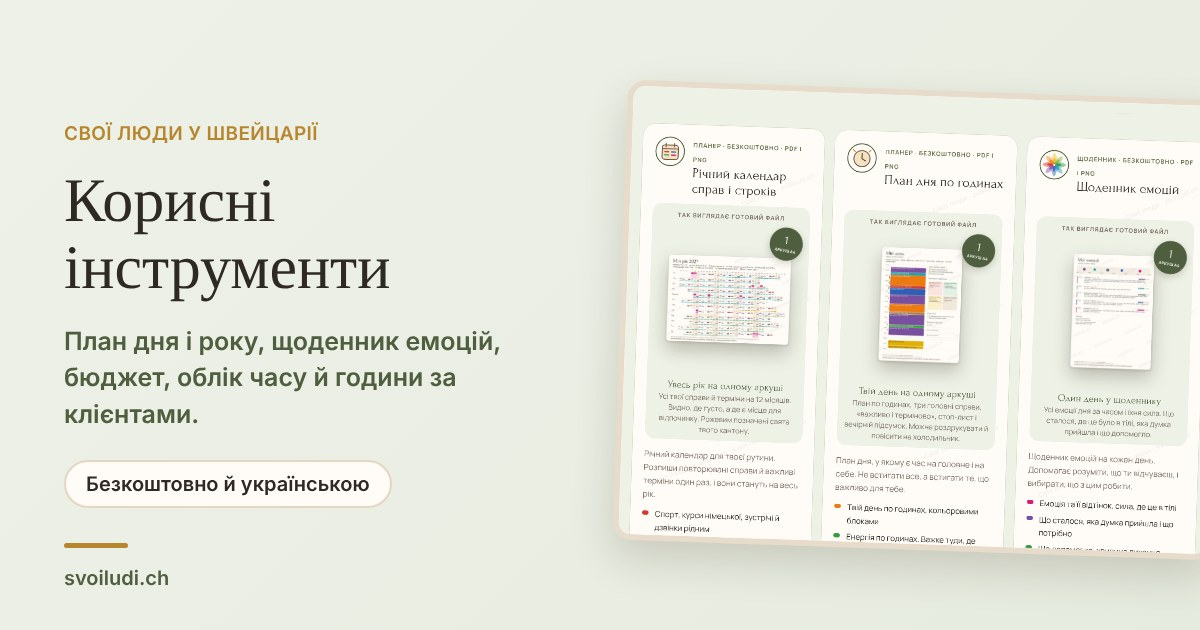
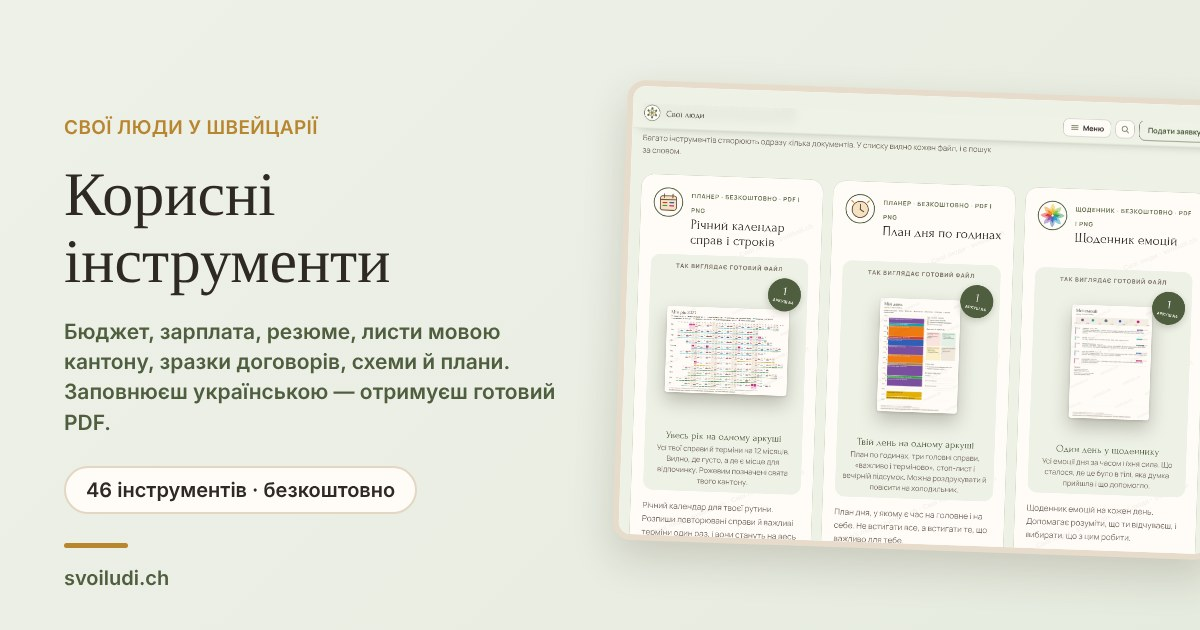
Превью ссылок: убраны 12 старых рабочих снимков экрана (корень, shots/); пересобраны устаревшие превью главной (20 направлений), «Как устроена Швейцария» (61 тема) и «Полезные инструменты» (46 инструментов), RU и UA; числа на превью og.js считает по сайту
Claude-Session: https://claude.ai/code/session_01E4tUbsWE7VL6NSJCaD6ywP

diff --git a/_i18n/og.js b/_i18n/og.js
@@ -10,6 +10,12 @@ const path = require('path'); const fs = require('fs');
 const ROOT = path.resolve(__dirname, '..'); const PORT = 8897; const BASE = `http://localhost:${PORT}`;
 const EB = { ru: 'СВОИ ЛЮДИ В ШВЕЙЦАРИИ', uk: 'СВОЇ ЛЮДИ У ШВЕЙЦАРІЇ' };
 const TOOLS = { ru: EB.ru + ' · ИНСТРУМЕНТЫ', uk: EB.uk + ' · ІНСТРУМЕНТИ' };
+// Числа на превью считаются по сайту при каждой сборке (11.10.2026: на превью стояли устаревшие «12 направлений» и «56 тем»).
+const pages = d => fs.readdirSync(path.join(ROOT, d), { withFileTypes: true }).filter(f => f.isDirectory() && fs.existsSync(path.join(ROOT, d, f.name, 'index.html'))).map(f => f.name);
+const N_TOPICS = pages('shveycariya').length;                                                   // темы «Как устроена Швейцария»
+const N_TOOLS = pages('instrumenty').filter(d => d !== 'vse-fayly').length;                      // инструменты и схемы
+const N_DIRS = (fs.readFileSync(path.join(__dirname, 'kategorii.py'), 'utf8').match(/^DIRS = \[([\s\S]*?)^\]/m) || ['', ''])[1].split('\n').filter(l => /^ {4}\('/.test(l)).length; // направления справочника (_i18n/kategorii.py)
+const plural = (n, one, few, many) => { const a = n % 10, b = n % 100; return `${n} ` + (a === 1 && b !== 11 ? one : a >= 2 && a <= 4 && (b < 12 || b > 14) ? few : many); };
 // sel — что снять со страницы; fan — папка с картинками готового PDF (пример), вместо снимка страницы
 const CARDS = [
   { out: 'events/og-image', url: '/events/', sel: '.finder',
@@ -25,8 +31,8 @@ const CARDS = [
     ru: { eb: EB.ru, title: 'Курсы и занятия на своём языке', desc: 'Йога, немецкий, кружки для детей, мастер-классы и вебинары по кантонам Швейцарии.', chip: 'Видно, кто ведёт каждый курс' },
     uk: { eb: EB.uk, title: 'Курси й заняття своєю мовою', desc: 'Йога, німецька, гуртки для дітей, майстер-класи та вебінари по кантонах Швейцарії.', chip: 'Видно, хто веде кожен курс' } },
   { out: 'instrumenty/og-image', url: '/instrumenty/', sel: '.tools',
-    ru: { eb: EB.ru, title: 'Полезные инструменты', desc: 'План дня и года, дневник эмоций, бюджет, учёт времени и часы по клиентам.', chip: 'Бесплатно и на русском' },
-    uk: { eb: EB.uk, title: 'Корисні інструменти', desc: 'План дня і року, щоденник емоцій, бюджет, облік часу й години за клієнтами.', chip: 'Безкоштовно й українською' } },
+    ru: { eb: EB.ru, title: 'Полезные инструменты', desc: 'Бюджет, зарплата, резюме, письма на языке кантона, образцы договоров, схемы и планы. Заполняешь на русском — получаешь готовый PDF.', chip: plural(N_TOOLS, 'инструмент', 'инструмента', 'инструментов') + ' · бесплатно' },
+    uk: { eb: EB.uk, title: 'Корисні інструменти', desc: 'Бюджет, зарплата, резюме, листи мовою кантону, зразки договорів, схеми й плани. Заповнюєш українською — отримуєш готовий PDF.', chip: plural(N_TOOLS, 'інструмент', 'інструменти', 'інструментів') + ' · безкоштовно' } },
   { out: 'instrumenty/vse-fayly/og-image', url: '/instrumenty/vse-fayly/', sel: '#dom .kg',
     ru: { eb: TOOLS.ru, title: 'Все файлы и инструменты по темам', desc: 'Письма, образцы договоров, протоколы, схемы, расчёты и распечатки — каждый файл со ссылкой.', chip: 'Бесплатно · PDF' },
     uk: { eb: TOOLS.uk, title: 'Усі файли та інструменти за темами', desc: 'Листи, зразки договорів, протоколи, схеми, розрахунки й роздруківки — кожен файл із посиланням.', chip: 'Безкоштовно · PDF' } },
@@ -112,8 +118,8 @@ const CARDS = [
   const SH = { ru: EB.ru + ' · КАК УСТРОЕНА ШВЕЙЦАРИЯ', uk: EB.uk + ' · ЯК ВЛАШТОВАНА ШВЕЙЦАРІЯ' };
   if (fs.existsSync(path.join(ROOT, 'shveycariya/index.html')) && !have.has('shveycariya/og-image'))
     CARDS.push({ out: 'shveycariya/og-image', url: '/shveycariya/', sel: '.s-hero',
-      ru: { eb: EB.ru, title: 'Как устроена Швейцария', desc: 'Пермиты, налоги, страховки, школа, работа и жильё — простыми словами, с инструментами и специалистами.', chip: '56 тем · бесплатно' },
-      uk: { eb: EB.uk, title: 'Як влаштована Швейцарія', desc: 'Пермити, податки, страховки, школа, робота й житло — простими словами, з інструментами та фахівцями.', chip: '56 тем · безкоштовно' } });
+      ru: { eb: EB.ru, title: 'Как устроена Швейцария', desc: 'Пермиты, налоги, страховки, школа, работа и жильё — простыми словами, с инструментами и специалистами.', chip: plural(N_TOPICS, 'тема', 'темы', 'тем') + ' · бесплатно' },
+      uk: { eb: EB.uk, title: 'Як влаштована Швейцарія', desc: 'Пермити, податки, страховки, школа, робота й житло — простими словами, з інструментами та фахівцями.', chip: plural(N_TOPICS, 'тема', 'теми', 'тем') + ' · безкоштовно' } });
   for (const d of fs.readdirSync(path.join(ROOT, 'shveycariya')).sort()) {
     const out = `shveycariya/${d}/og-image`, ru = path.join(ROOT, 'shveycariya', d, 'index.html'), uk = path.join(ROOT, 'uk/shveycariya', d, 'index.html');
     if (have.has(out) || !fs.existsSync(ru)) continue;
@@ -126,8 +132,8 @@ const CARDS = [
 // Главная: карта Швейцарии, города связаны нитями, плашки специалистов (вариант A, выбран Ириной 07.10.2026)
 const MAIN = {
   out: 'fav/og-svoi-ludi',
-  ru: { eb: 'СПРАВОЧНИК · СООБЩЕСТВО', h1a: 'Свои люди', h1b: 'в Швейцарии', p: 'Врачи, юристы, психологи и мастера, которые говорят <nobr>по-русски</nobr> и <nobr>по-украински</nobr>. Рядом с вами, в каждом кантоне.', chips: ['26 кантонов', '12 направлений', 'встречи и события'], pins: ['Психолог', 'Юрист', 'Педиатр', 'Парикмахер', 'Массаж'] },
-  uk: { eb: 'ДОВІДНИК · СПІЛЬНОТА', h1a: 'Свої люди', h1b: 'у Швейцарії', p: 'Лікарі, юристи, психологи й майстри, які говорять російською та українською. Поруч із вами, у кожному кантоні.', chips: ['26 кантонів', '12 напрямів', 'зустрічі й події'], pins: ['Психолог', 'Юрист', 'Педіатр', 'Перукар', 'Масаж'] },
+  ru: { eb: 'СПРАВОЧНИК · СООБЩЕСТВО', h1a: 'Свои люди', h1b: 'в Швейцарии', p: 'Врачи, юристы, психологи и мастера, которые говорят <nobr>по-русски</nobr> и <nobr>по-украински</nobr>. Рядом с вами, в каждом кантоне.', chips: ['26 кантонов', plural(N_DIRS, 'направление', 'направления', 'направлений'), 'встречи и события'], pins: ['Психолог', 'Юрист', 'Педиатр', 'Парикмахер', 'Массаж'] },
+  uk: { eb: 'ДОВІДНИК · СПІЛЬНОТА', h1a: 'Свої люди', h1b: 'у Швейцарії', p: 'Лікарі, юристи, психологи й майстри, які говорять російською та українською. Поруч із вами, у кожному кантоні.', chips: ['26 кантонів', plural(N_DIRS, 'напрям', 'напрями', 'напрямів'), 'зустрічі й події'], pins: ['Психолог', 'Юрист', 'Педіатр', 'Перукар', 'Масаж'] },
 };
 const CSS = `<link rel="stylesheet" href="${BASE}/assets/fonts.css"><style>
 *{box-sizing:border-box;margin:0}body{width:1200px;height:630px;overflow:hidden;background:linear-gradient(135deg,#eef1e8,#e6ebdf);font-family:Manrope,system-ui,sans-serif;color:#2f2924;position:relative}

diff --git a/_i18n/JOURNAL.md b/_i18n/JOURNAL.md
@@ -135,3 +135,4 @@
 - 11.10.2026, 15:55 — КОПИЯ (ветка `kopiya-kategorii`, не размещено), решение Ирины по документу проекта «kategorii-spravochnika.md» («Русская школа и билингвизм — оставь в языках, всё остальное переделывай, это ок»): справочник — 20 направлений в 5 группах, 124 категории (было 12 и 76). Один источник — новый `_i18n/kategorii.py` (направление, группа, цвет, значок, категории с немецким словом и «что проверяем»): переписывает CATS и GROUPS на главной, CATS в опросе, CATS/GROUPS/PROVERKA в «Как разместиться», список направлений в «Вакансиях» (форма с группами, названия), CATS в `_i18n/pochta/zapis.py` и раздел 2 анкеты Word (список «Главное направление» и галочки по направлениям; повторный запуск файл не трогает). Главная: выбор направления с группами (optgroup), «Категория»/«Все категории» вместо «Специализация», второе направление карточки `cat2` (фильтр, счётчики, поиск, «Кто поможет» в assets/temy.js), немецкие слова категорий в поиске, 8 новых значков (dirAlt, dirCare, dirPets, dirWork, dirBiz, dirAuto, dirSport, dirFood), пометки «для кого» seniors/couples/firms (видны, когда есть у карточек). «Как разместиться»: главное и второе направление, до трёх категорий, блок «что мы проверяем» для регулируемых категорий, направление и категории в письме. Карточки и образцы перенесены (Ирина Андреева — «Массаж для отдыха» до проверки разрешения, Лариса Медведева — «Маникюр и педикюр», «Косметолог», «Брови и ресницы»; образец Ольга Марти — «Медицинский массаж», образец логопеда — «Врачи и медицина»), образцы вакансий (повар — «Еда на заказ», кабинет — «Врачи и медицина»). «Кто поможет» во всех 61 теме и 8 «Моих ситуациях» по таблице переноса, тексты статей «Своё дело», «Беременность», «Письма от ведомств». Новость 2026-10-11-kategorii. UA 365 фраз, поиск, smoke ALL OK, телефон 360/390/430 и компьютер без прокрутки. Ждёт «публикуй».
 - 11.10.2026, 15:50 — ВЫЛОЖЕНО по «публикуй» Ирины: справочник — 20 направлений в 5 группах и 124 категории (ветка `kopiya-kategorii` слита с main): главная, «Как разместиться» и анкета Word, опрос, «Вакансии», «Кто поможет» во всех темах и «Моих ситуациях», новость 2026-10-11-kategorii, RU и UA. sw v50.
 - 11.10.2026, 16:40 — ВЫЛОЖЕНО сразу (поправка, просьба Ирины «перепроверь все формы»): **анкета Word** — после выкладки 15:47 файл был повреждён (при пересборке галочек абзацы вынимались из ячеек таблицы, Word его не открыл бы); теперь `write_anketa` в `_i18n/kategorii.py` пересобирает таблицу целыми строками и перед записью проверяет XML и номера полей. В анкете новая строка «Второе направление» (поле d15; страница «Как разместиться» его заполняет), «Направление и категории», «отметьте до трёх», подсказка о регулируемых категориях (раздел 6), «Нет подходящей категории?»; убраны «справочник Swiss Guide» и коучинговые Instagram/Telegram в подвале (теперь svoiludi.ch и e-mail справочника); раздел «Ваши данные» — Alonira.ch AG и сроки хранения как в политике (анкета и согласие — до 3 лет после снятия, документы для проверки — 12 месяцев, счета — 10 лет). `_i18n/pochta/anketa.py`: подпись последней галочки в строке больше не захватывает название следующего направления. join/: в письме нет пустых строк от незаполненных полей. «Что нового» — запись 2026-10-11-anketa. Проверены автотестом все формы RU и UA: «Как разместиться» (+ скачанная анкета разобрана), события, курсы, вакансии (+ поиск по номеру SG-0017, SG-0013, UID), организации, опрос (POST перехвачен), подтверждение карточки и записей, «Записаться». | 13 фраз переведено, anketa.uk.docx пересобрана, sw v51 | — |
+- 11.10.2026, 16:50 — ВЫЛОЖЕНО сразу (поправка, просьба Ирины «на страничках превью ещё есть старые картинки, поудаляй»): убраны 12 старых рабочих снимков экрана, которые лежали на сайте и нигде не показывались (pk-/po-/pt-d.png и -m.png в корне, папка shots/ — на них ещё старое меню «Работа и своё дело»). Пересобраны устаревшие превью ссылок RU и UA: главная (было «12 направлений» → 20), «Как устроена Швейцария» (было «56 тем» → 61), «Полезные инструменты» (был список из пяти первых инструментов → 46 инструментов). Числа на превью `_i18n/og.js` теперь считает сам по сайту (N_DIRS из kategorii.py, N_TOPICS, N_TOOLS), чтобы они больше не устаревали. Проверено: все 266 превью на месте, лишних и потерянных картинок нет.
